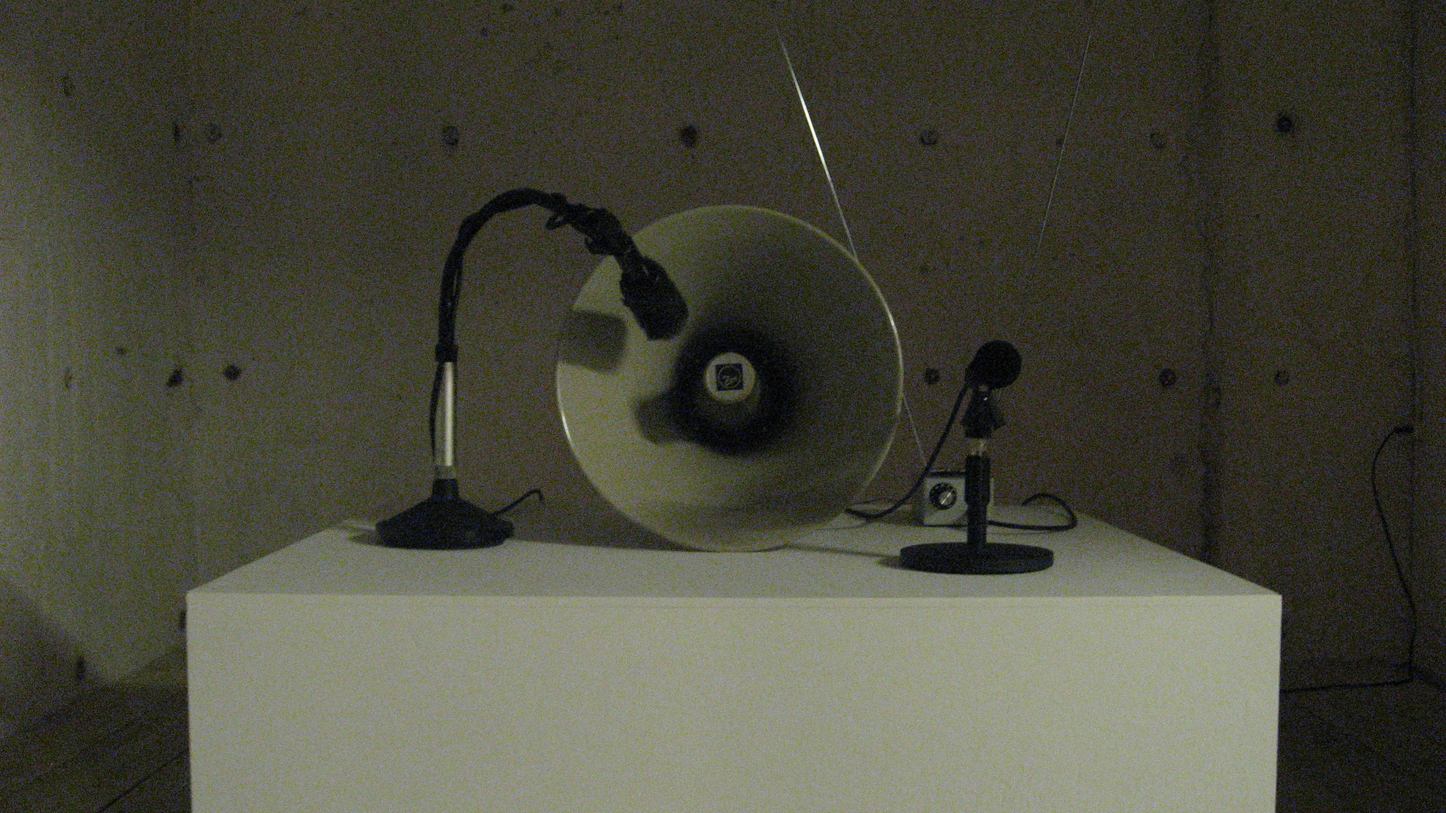
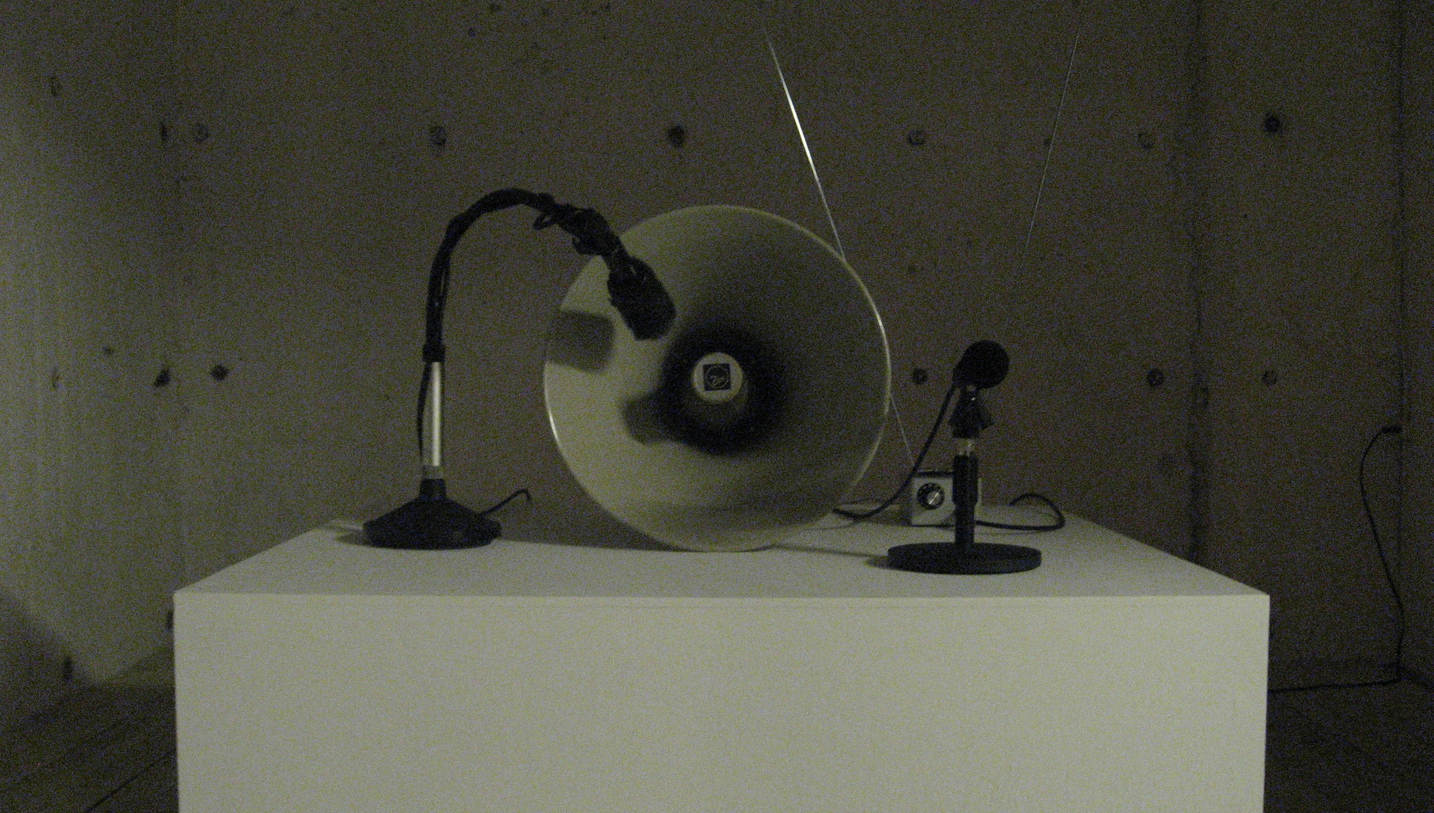
update

diff --git a/index.html b/index.html
@@ -37,7 +37,8 @@
 
         <div id="topics">
             <!--<dd><img class="img_fit_2" src="img/events/117_2024.jpg"/></dd>-->
-            <dd><a href="events/yukkuri2025.pdf"><img class="img_fit_3" src="img/events/yukkuri2025_web.png"/></a></dd>
+            <!--<dd><a href="events/yukkuri2025.pdf"><img class="img_fit_3" src="img/events/yukkuri2025_web.png"/></a></dd>-->
+            <dd><img class="img_fit_3" src="img/documents/yukkuri_bica/yukkuriradio_2025_0.JPG"/></a></dd>
             <!--<dd><img class="img_fit_3" src="img/events/117_2024.jpg"/></dd>-->
             <h2 class="text_pure">誉田千尋 Chihiro HOMUTA / Artist of auditory media.</h2>
             <h3 class="text_pure"><a href="events/yukkuri2025.pdf"><u>06/28/2025 ゆっくりラジオ 特別ライブ</u></a></h3>
